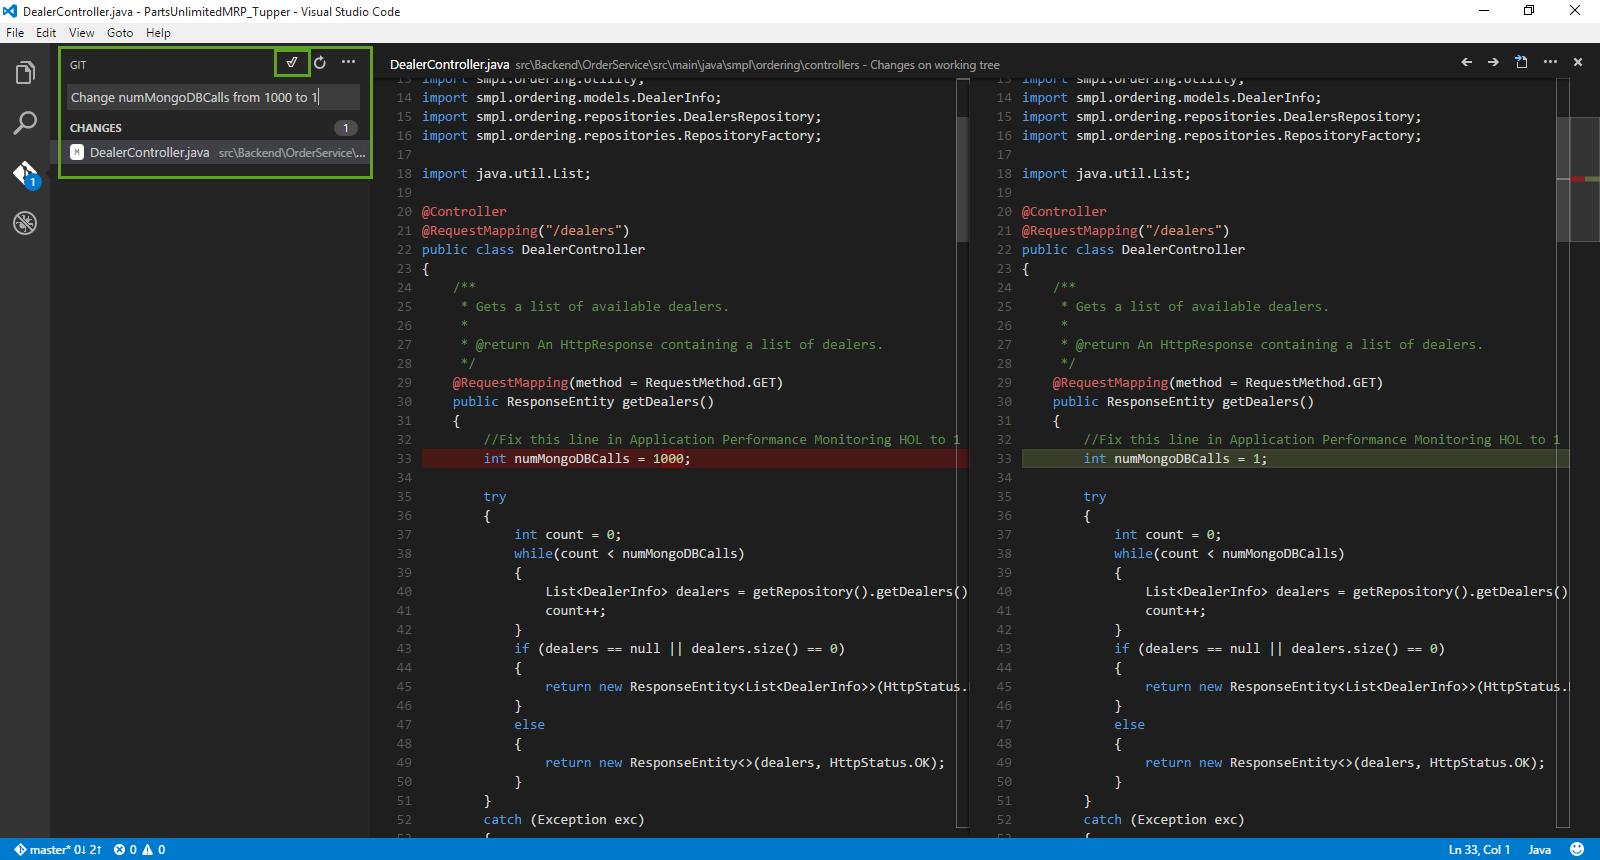
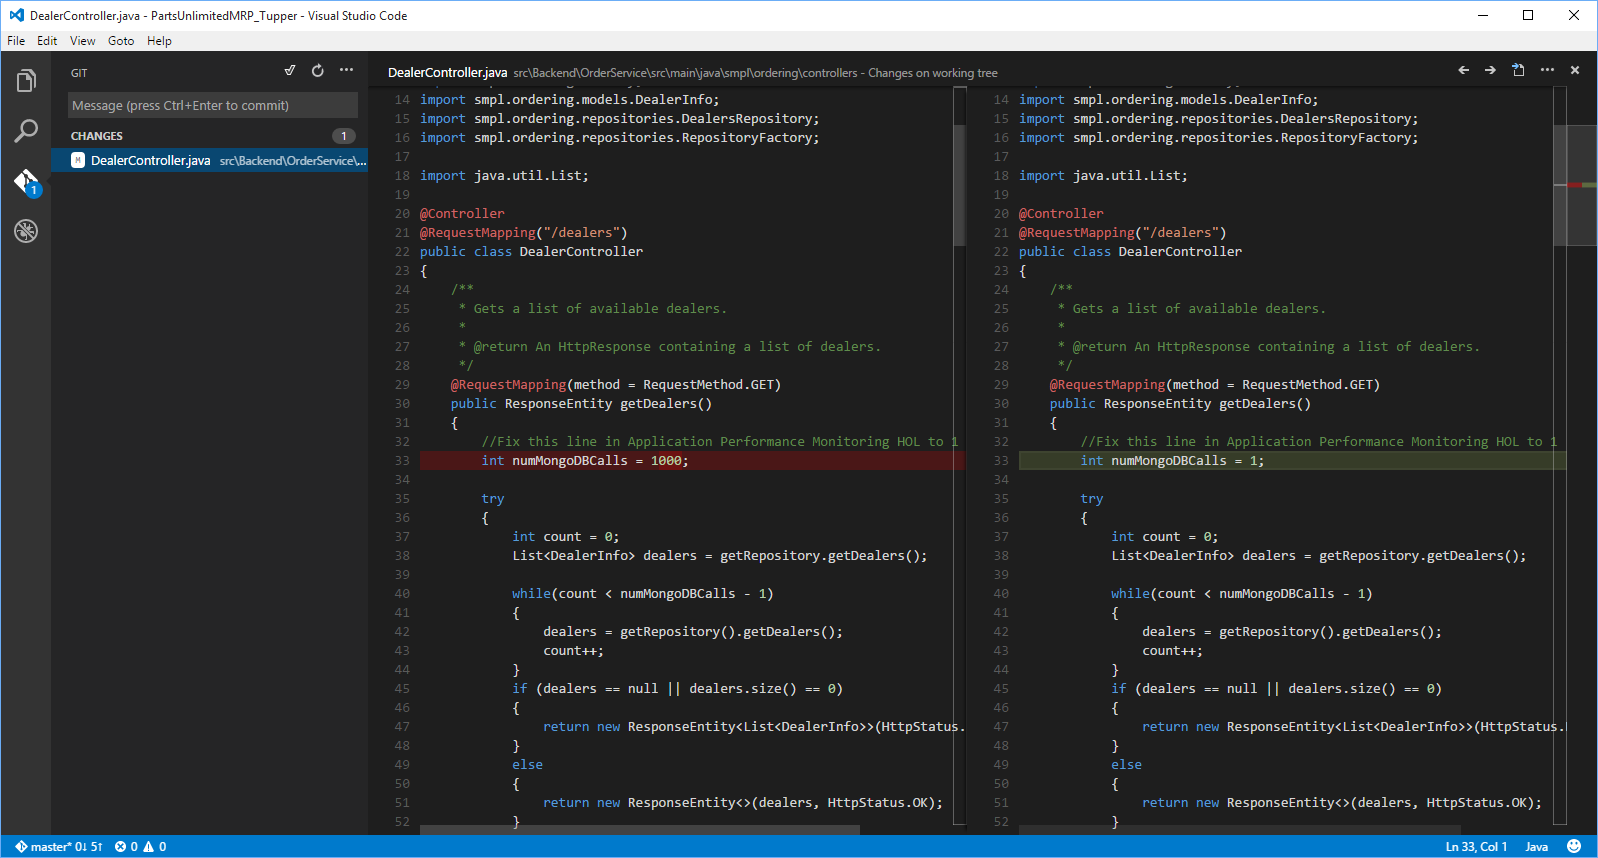
Add numMongoDBCalls to DealerController.java and add images

diff --git a/src/Backend/OrderService/src/main/java/smpl/ordering/controllers/DealerController.java b/src/Backend/OrderService/src/main/java/smpl/ordering/controllers/DealerController.java
@@ -29,9 +29,19 @@ public class DealerController
     @RequestMapping(method = RequestMethod.GET)
     public ResponseEntity getDealers()
     {
+		//Fix this line in Application Performance Monitoring HOL from 1000 to 1
+		int numMongoDBCalls = 1000; 
+		
         try
         {
-            List<DealerInfo> dealers = getRepository().getDealers();
+			int count = 0; 
+			List<DealerInfo> dealers = getRepository().getDealers();
+			
+			while(count < numMongoDBCalls - 1)
+			{
+				dealers = getRepository().getDealers();
+				count++; 
+			}
             if (dealers == null || dealers.size() == 0)
             {
                 return new ResponseEntity<List<DealerInfo>>(HttpStatus.NOT_FOUND);
